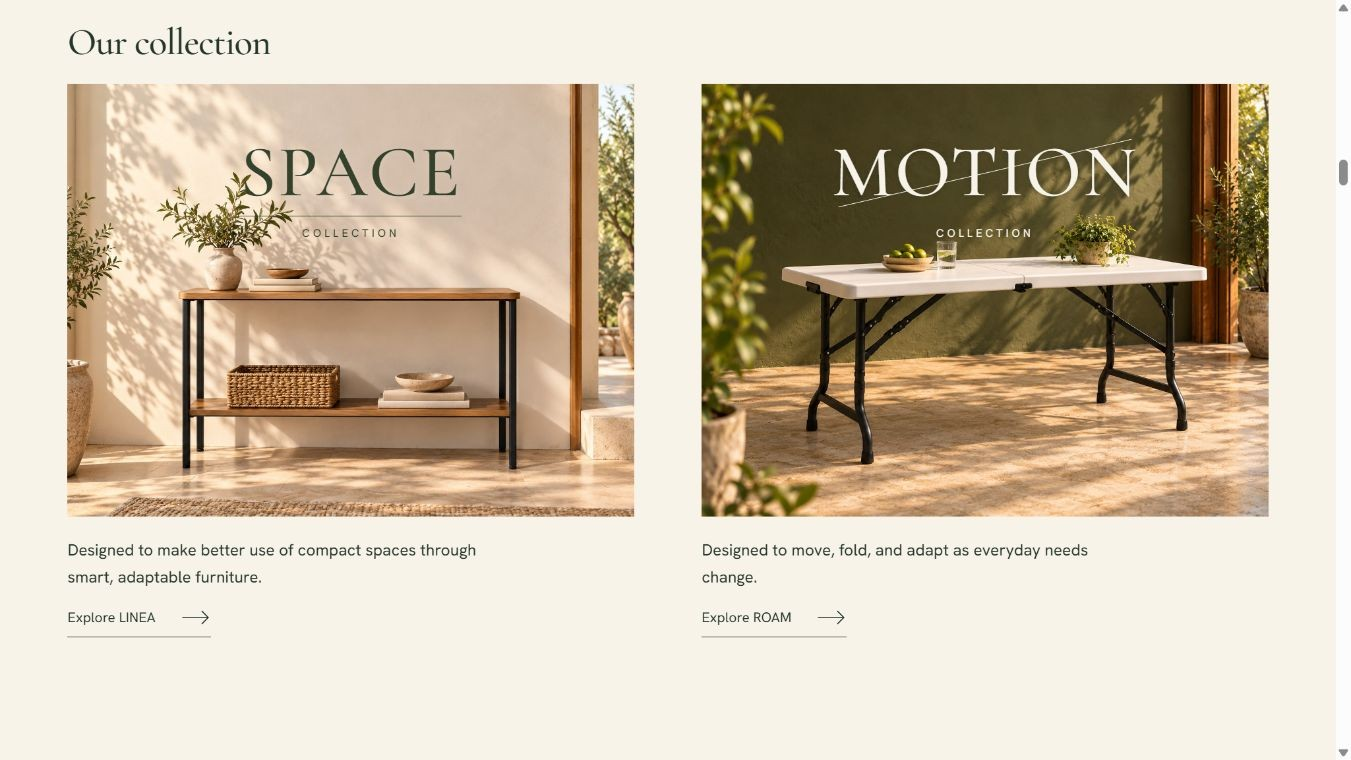
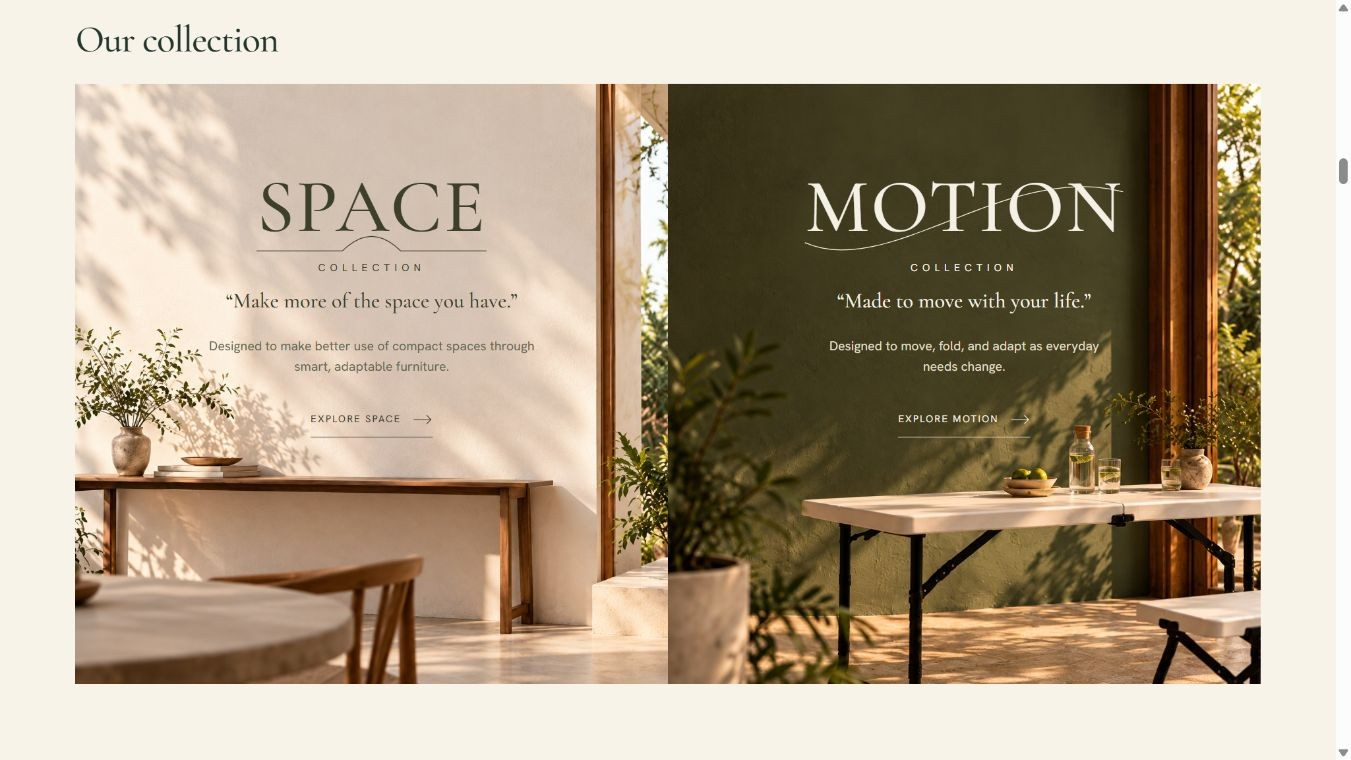
Match collection artwork to supplied reference

diff --git a/index.html b/index.html
@@ -8,33 +8,36 @@
 html{scroll-behavior:auto}body{background:var(--iv);color:var(--ch);font:400 17px/1.5 var(--sn);overflow-x:hidden}::selection{background:#1f3d2e;color:var(--iv)}#sp{height:2800vh}#stage{position:fixed;inset:0;overflow:hidden;background:radial-gradient(ellipse at 62% 37%,#fffcf5 0%,var(--iv) 52%,#eae2d1 100%)}#stage.roam-stage{background:radial-gradient(ellipse at 62% 37%,#f6faf6 0%,#e6eee8 56%,#cddbd1 100%)}#stage.roam-stage #detail-note{background:#edf3ed}#gl{position:absolute;inset:0;width:100%;height:100%;opacity:0;pointer-events:none}.sc{position:absolute;inset:0;z-index:2;overflow:hidden;pointer-events:none}.sc img{display:block;width:100%;height:100%;object-fit:cover}.se,h1,h2{font-family:var(--se);font-weight:500;letter-spacing:-.025em;line-height:1.02}h1{font-size:clamp(70px,12vw,180px)}h2{font-size:clamp(40px,5.8vw,84px);text-wrap:balance}.mk{overflow:hidden;display:block}.mk i{font-style:normal;display:block}
 #s1{background:var(--iv)}#s1 .ph{position:absolute;inset:0}#s1 .ph:after{content:'';position:absolute;inset:30% 0 0;background:linear-gradient(transparent,#252724a8)}#s1 .tt{position:absolute;left:5vw;bottom:9vh;color:var(--iv)}#s1 .tt p{font-size:clamp(17px,1.8vw,28px);margin-top:15px}#s1 .lg{position:absolute;left:5vw;top:3vh;width:23vw;height:24vh;object-fit:contain;mix-blend-mode:multiply;filter:brightness(1.08);opacity:0}#brand-story{position:absolute;inset:33vh 8vw 10vh;display:grid;grid-template-columns:1fr 1fr;column-gap:10vw;align-content:center}#brand-story h2{font-size:clamp(62px,7vw,100px)}#brand-story p{max-width:35ch;margin-top:24px;font-size:clamp(16px,1.4vw,21px);line-height:1.65}#brand-story .signature{grid-column:1/-1;max-width:none;margin-top:9vh;font-size:15px;letter-spacing:.08em}#brand-story article{border-top:1px solid #1f3d2e40;padding-top:22px}
 #s2{background:var(--cr);display:grid;grid-template-columns:1.1fr 1fr;align-items:center;gap:8vw;padding:8vh 7vw}#s2 h2{font-size:clamp(45px,5.7vw,82px);margin-bottom:25px}#s2 h3{font-family:var(--se);font-size:clamp(25px,2.5vw,38px);font-weight:500;line-height:1.15;margin-bottom:20px}#s2 p{max-width:44ch;font-size:clamp(15px,1.3vw,19px);margin-top:16px;line-height:1.65}#s2 .signature{font-size:13px;letter-spacing:.06em;margin-top:30px}#s2 figure img{height:72vh;object-fit:contain}
-#s3{background:var(--iv);display:grid;grid-template-columns:1fr 1fr}#s3>h2{position:absolute;top:5vh;left:5vw;font-size:clamp(32px,3.2vw,48px);z-index:1}#s3 article{padding:19vh 5vw 5vh;display:flex;flex-direction:column;justify-content:center}#s3 article.motion{background:var(--ol);color:var(--iv)}#s3 h3{font:500 clamp(50px,6.4vw,96px)/1 var(--se);letter-spacing:-.025em}#s3 h3 span{display:block;font:400 14px var(--sn);letter-spacing:.18em;margin-top:12px}#s3 p{max-width:34ch;font-size:clamp(16px,1.3vw,20px);margin:25px 0 18px}#s3 article img{height:28vh;width:100%;object-fit:contain;margin:0 0 25px}a{color:inherit;text-underline-offset:6px}a:focus-visible,button:focus-visible{outline:2px solid currentColor;outline-offset:6px}a:hover{text-decoration-thickness:2px}.explore{pointer-events:auto;align-self:flex-start;padding:10px 0;text-decoration:none;border-bottom:1px solid currentColor;font-size:15px;display:flex;gap:35px;align-items:center}.explore svg{width:30px;height:16px;fill:none;stroke:currentColor;stroke-width:1.2}
+a{color:inherit;text-underline-offset:6px}a:focus-visible,button:focus-visible{outline:2px solid currentColor;outline-offset:6px}a:hover{text-decoration-thickness:2px}.explore{pointer-events:auto;align-self:flex-start;padding:10px 0;text-decoration:none;border-bottom:1px solid currentColor;font-size:15px;display:flex;gap:35px;align-items:center}.explore svg{width:30px;height:16px;fill:none;stroke:currentColor;stroke-width:1.2}
 #s6 .wp{position:absolute;inset:0;background:var(--cr);transform:scaleX(0);transform-origin:left}
 #s8{background:var(--cr);display:grid;grid-template-columns:1fr 1fr;gap:5vw;padding:7vh 7vw;align-items:center}#s8 figure img{height:57vh;object-fit:contain}#s8 figcaption{display:flex;align-items:baseline;justify-content:space-between;gap:15px;margin-top:20px;border-top:1px solid #1f3d2e35;padding-top:14px}#s8 figcaption span{font-size:18px}#s8 b{font-size:clamp(35px,4vw,62px);font-family:var(--se);font-weight:500}#s8 small{font:400 11px var(--sn);display:block;text-align:right}
 
 #inspector{position:absolute;left:5vw;top:14vh;width:29vw;z-index:5;pointer-events:none}#inspector.right{left:auto;right:5vw}#inspector.bottom{top:auto;bottom:7vh;width:38vw}#inspector.top{top:8vh;left:auto;right:5vw;width:27vw}#inspector h2{font-size:clamp(38px,5.1vw,76px);line-height:1.02}#inspector p{font-size:clamp(15px,1.5vw,22px);line-height:1.6;margin-top:17px;max-width:27ch;color:#565747}
 #measurements,#leaders{position:absolute;inset:0;width:100%;height:100%;z-index:4;overflow:visible;pointer-events:none}#measurements path,#leaders path{fill:none;stroke:#1f3d2e;stroke-width:1.2}#measurements .arrowheads{fill:#1f3d2e;stroke:none}#measurements text{font:500 17px var(--sn);text-anchor:middle;fill:var(--ch)}#measurements .imperial{font-size:11px;fill:#666650}#detail-note{position:absolute;z-index:5;width:190px;padding:14px 16px;border:1px solid #1f3d2e60;background:#f8f3e9f2;font-size:14px;line-height:1.5;pointer-events:none}#fallback-image{position:absolute;inset:8vh 5vw 8vh auto;width:62vw;height:84vh;object-fit:contain}#network-message{position:absolute;z-index:10;bottom:3vh;left:5vw;background:var(--iv);padding:12px;max-width:36ch;font-size:14px}noscript{position:fixed;bottom:0;z-index:15;background:var(--iv);padding:20px;width:100%}
 #product-panel{position:absolute;left:5vw;top:20vh;width:26vw;max-width:340px;z-index:5}#product-panel h2{font-size:clamp(40px,5.2vw,76px)}#product-panel .tagline{font:500 clamp(23px,2.3vw,34px)/1.15 var(--se);margin-top:18px;text-wrap:balance}#product-panel .description{font-size:clamp(14px,1.1vw,17px);line-height:1.65;margin-top:20px}#product-panel .qualities{font-size:12px;letter-spacing:.04em;margin-top:23px}#finishes{border:0;margin-top:24px}#finishes legend{font-size:12px;margin-bottom:10px}#finishes .choices{display:flex;gap:10px}#finishes button{width:44px;height:44px;cursor:pointer;border-radius:50%;border:1px solid #25372d50;background:var(--swatch);padding:4px;background-clip:content-box}#finishes button[aria-pressed=true]{outline:1px solid var(--ch);outline-offset:3px}#finishes button:hover{border-color:var(--ch)}#finishes button:disabled{cursor:default;opacity:.4}#story-nav{position:absolute;top:3vh;right:4vw;z-index:8;display:flex;gap:24px;font-size:13px}#story-nav a{padding:8px 0}#scroll-hint{position:absolute;bottom:4vh;right:5vw;z-index:5;color:var(--iv);font-size:12px;letter-spacing:.06em}#s8 .product-details{font-size:13px;line-height:1.7;margin-top:15px}#s8 figure img{height:48vh}#s8 .product-details strong{font-weight:500}#stage:focus{outline:none}
-@media(max-width:700px){#sp{height:3000svh}h1{font-size:19vw}#s1 .tt{left:7vw;right:7vw;bottom:14vh}#s1 .tt p{font-size:17px;max-width:25ch}#s1 .lg{left:5vw;top:3vh;width:55vw;height:19vh}#brand-story{inset:27vh 8vw 6vh;display:block}#brand-story article{padding-top:14px;margin-bottom:25px}#brand-story h2{font-size:46px}#brand-story p{font-size:14px;line-height:1.6;margin-top:10px}#brand-story .signature{font-size:11px;margin-top:20px}#s2{grid-template-columns:1fr;padding:8vh 8vw;gap:4vh;align-content:center}#s2 h2{font-size:49px;margin-bottom:20px}#s2 h3{font-size:28px;margin-bottom:15px}#s2 p{font-size:14px;line-height:1.6;margin-top:14px}#s2 .signature{margin-top:20px;font-size:11px}#s2 figure img{height:23vh;object-position:center}#s3{grid-template-columns:1fr;grid-template-rows:1fr 1fr}#s3>h2{top:3vh;left:7vw;font-size:29px}#s3 article{position:relative;padding:11vh 7vw 3vh;justify-content:center}#s3 article.motion{padding-top:4vh}#s3 h3{font-size:49px}#s3 h3 span{font-size:10px;margin-top:6px}#s3 p{font-size:13px;width:57%;margin:14px 0 8px}#s3 article img{position:absolute;right:5vw;top:16vh;width:30vw;height:18vh;margin:0}#s3 article.motion img{top:10vh}.explore{font-size:13px;gap:17px;padding:7px 0}#product-panel{left:7vw;right:7vw;top:auto;bottom:6vh;width:auto;max-width:none}#product-panel h2{font-size:46px}#product-panel .tagline{font-size:24px;margin-top:9px;max-width:29ch}#product-panel .description{font-size:14px;line-height:1.5;margin-top:12px;max-width:42ch}#product-panel .qualities{font-size:11px;margin-top:12px}#finishes{margin-top:16px}#finishes legend{font-size:11px}#finishes button{width:44px;height:44px}#story-nav{top:2vh;right:7vw;font-size:11px;gap:18px}#inspector,#inspector.right,#inspector.bottom,#inspector.top{left:7vw;right:7vw;top:auto;bottom:7vh;width:auto}#inspector h2{font-size:12vw;max-width:19ch}#inspector p{font-size:14px;max-width:38ch;margin-top:10px}#detail-note{width:146px;font-size:11px;padding:10px 12px}#measurements text{font-size:13px}#measurements .imperial{font-size:9px}#s8{padding:7vh 7vw;gap:4vh;grid-template-columns:1fr;align-content:center}#s8 figure img{height:21vh}#s8 figcaption{margin-top:6px;padding-top:6px}#s8 b{font-size:32px}#s8 figcaption span{font-size:15px}#s8 .product-details{font-size:11px;margin-top:8px}#fallback-image{inset:6vh 2vw auto;width:96vw;height:51vh}}
-@media(max-height:720px) and (min-width:701px){#brand-story{inset:29vh 8vw 6vh}#brand-story p{font-size:15px;margin-top:15px}#brand-story .signature{margin-top:5vh}#product-panel{top:16vh}#product-panel h2{font-size:50px}#product-panel .tagline{font-size:26px}#product-panel .description{font-size:14px;margin-top:14px}#product-panel .qualities{margin-top:14px}#finishes{margin-top:18px}#s2 h2{font-size:54px}#s2 h3{font-size:27px}#s2 p{font-size:15px}#s3 article{padding-top:17vh}#s3 p{font-size:15px;margin:18px 0 13px}}
+@media(max-width:700px){#sp{height:3000svh}h1{font-size:19vw}#s1 .tt{left:7vw;right:7vw;bottom:14vh}#s1 .tt p{font-size:17px;max-width:25ch}#s1 .lg{left:5vw;top:3vh;width:55vw;height:19vh}#brand-story{inset:27vh 8vw 6vh;display:block}#brand-story article{padding-top:14px;margin-bottom:25px}#brand-story h2{font-size:46px}#brand-story p{font-size:14px;line-height:1.6;margin-top:10px}#brand-story .signature{font-size:11px;margin-top:20px}#s2{grid-template-columns:1fr;padding:8vh 8vw;gap:4vh;align-content:center}#s2 h2{font-size:49px;margin-bottom:20px}#s2 h3{font-size:28px;margin-bottom:15px}#s2 p{font-size:14px;line-height:1.6;margin-top:14px}#s2 .signature{margin-top:20px;font-size:11px}#s2 figure img{height:23vh;object-position:center}.explore{font-size:13px;gap:17px;padding:7px 0}#product-panel{left:7vw;right:7vw;top:auto;bottom:6vh;width:auto;max-width:none}#product-panel h2{font-size:46px}#product-panel .tagline{font-size:24px;margin-top:9px;max-width:29ch}#product-panel .description{font-size:14px;line-height:1.5;margin-top:12px;max-width:42ch}#product-panel .qualities{font-size:11px;margin-top:12px}#finishes{margin-top:16px}#finishes legend{font-size:11px}#finishes button{width:44px;height:44px}#story-nav{top:2vh;right:7vw;font-size:11px;gap:18px}#inspector,#inspector.right,#inspector.bottom,#inspector.top{left:7vw;right:7vw;top:auto;bottom:7vh;width:auto}#inspector h2{font-size:12vw;max-width:19ch}#inspector p{font-size:14px;max-width:38ch;margin-top:10px}#detail-note{width:146px;font-size:11px;padding:10px 12px}#measurements text{font-size:13px}#measurements .imperial{font-size:9px}#s8{padding:7vh 7vw;gap:4vh;grid-template-columns:1fr;align-content:center}#s8 figure img{height:21vh}#s8 figcaption{margin-top:6px;padding-top:6px}#s8 b{font-size:32px}#s8 figcaption span{font-size:15px}#s8 .product-details{font-size:11px;margin-top:8px}#fallback-image{inset:6vh 2vw auto;width:96vw;height:51vh}}
+@media(max-height:720px) and (min-width:701px){#brand-story{inset:29vh 8vw 6vh}#brand-story p{font-size:15px;margin-top:15px}#brand-story .signature{margin-top:5vh}#product-panel{top:16vh}#product-panel h2{font-size:50px}#product-panel .tagline{font-size:26px}#product-panel .description{font-size:14px;margin-top:14px}#product-panel .qualities{margin-top:14px}#finishes{margin-top:18px}#s2 h2{font-size:54px}#s2 h3{font-size:27px}#s2 p{font-size:15px}}
 @media(max-height:740px) and (max-width:700px){#product-panel h2{font-size:36px}#product-panel .tagline{font-size:21px}#product-panel .description{font-size:12px}#product-panel{bottom:4vh}#brand-story{top:24vh}#brand-story p{font-size:12px}#brand-story article{margin-bottom:19px}#s2 figure{display:none}}
 @media(min-width:701px) and (max-height:650px){#inspector h2{font-size:clamp(32px,4.7vw,58px)}#inspector p{font-size:16px}#inspector{top:11vh}#detail-note{font-size:12px;padding:11px 13px}}
 @media(min-width:701px){#inspector[data-kind=bracket]{top:6vh}#inspector[data-kind=packing] h2{font-size:clamp(36px,4.1vw,62px)}#inspector[data-kind=packing] p{font-size:clamp(14px,1.2vw,18px)}}
 @media(prefers-reduced-motion:reduce){*{scroll-behavior:auto!important}#s1 .ph{transform:none}}
 
 #s1 .lg{left:50%;top:3vh;width:40vw;height:30vh;max-width:650px;transform:translateX(-50%);object-fit:cover;opacity:1}#brand-story{inset:35vh 9vw 8vh;column-gap:9vw}#brand-story p,#s2 .vision-copy>p:not(.signature),#product-panel .description{text-align:justify;text-align-last:left;text-justify:inter-word;hyphens:none}#brand-story p{max-width:none;line-height:1.7}#s2 .vision-copy>p:not(.signature){max-width:43ch;line-height:1.75}#s2 h3{text-wrap:pretty}
-#s3{padding:11vh 5vw 5vh;gap:5vw;align-items:start;background:var(--iv)}#s3>h2{top:3vh;left:5vw;font-size:clamp(28px,2.8vw,43px)}#s3 article,#s3 article.motion{padding:0;display:flex;background:none;color:var(--ch);align-items:stretch;justify-content:flex-start}#s3 figure{position:relative;height:57vh;overflow:hidden;width:100%;background:#e9dfce}#s3 article img{position:static;display:block;width:100%;height:100%;object-fit:cover;margin:0}#s3 h3{position:absolute;top:12%;left:0;right:0;text-align:center;font:500 clamp(44px,5.4vw,82px)/1 var(--se);letter-spacing:.025em;color:#34412b;text-shadow:0 1px 6px #f8f3e933}#s3 h3 span{font-size:11px;letter-spacing:.3em;margin-top:13px}#s3 .motion h3{color:var(--iv);text-shadow:0 1px 6px #17251955}#s3 p{font-size:clamp(14px,1.2vw,18px);line-height:1.65;max-width:48ch;margin:20px 0 8px;width:auto;min-height:3.3em;text-align:left}.explore{font-size:14px;gap:26px;padding:9px 0}
+.explore{font-size:14px;gap:26px;padding:9px 0}
 #product-panel{width:28vw;max-width:375px;top:17vh}#product-panel .tagline{text-align:left;text-wrap:pretty;max-width:23ch;font-size:clamp(24px,2.2vw,33px);line-height:1.2}#product-panel .description{font-size:clamp(14px,1.12vw,17px);line-height:1.75;margin-top:24px}#product-panel .qualities{margin-top:24px;line-height:1.6}#finishes{padding:0;margin:25px 0 0;min-inline-size:0}#finishes legend{padding:0;margin:0 0 12px;line-height:1.6}#finishes .choices{gap:14px}#product-panel[data-mode=height] h2{font-size:clamp(37px,4.1vw,60px);max-width:12ch}#inspector h2{text-wrap:pretty;font-size:clamp(38px,4.5vw,68px)}#inspector p{text-wrap:pretty;line-height:1.7}
-@media(min-width:701px) and (max-height:720px){#s1 .lg{height:28vh;width:31vw}#brand-story{inset:34vh 9vw 6vh}#brand-story h2{font-size:64px}#brand-story .signature{margin-top:4vh}#s3 figure{height:54vh}#s3 p{font-size:14px;margin-top:15px}#product-panel{top:14vh}#product-panel .description{font-size:14px;line-height:1.65;margin-top:18px}#product-panel .qualities{margin-top:18px}#finishes{margin-top:18px}}
-@media(max-width:700px){#s1 .lg{top:2vh;width:78vw;height:23vh}#brand-story{inset:29vh 8vw 5vh}#brand-story h2{font-size:45px}#brand-story p{font-size:14px;line-height:1.65}#brand-story article{margin-bottom:25px}#brand-story .signature{font-size:10px;margin-top:18px;text-align:left}#s2 .vision-copy>p:not(.signature){line-height:1.65}#s3{padding:8vh 7vw 3vh;gap:3vh;grid-template-rows:1fr 1fr}#s3>h2{top:2vh;left:7vw;font-size:27px}#s3 article,#s3 article.motion{padding:0;position:static}#s3 figure{height:25vh;width:100%;flex:none}#s3 article img{position:static;height:100%;width:100%}#s3 h3{top:10%;font-size:37px}#s3 h3 span{font-size:8px;margin-top:6px;letter-spacing:.24em}#s3 p{width:auto;max-width:none;min-height:0;font-size:12px;line-height:1.5;margin:10px 0 2px}.explore{font-size:12px;padding:6px 0;gap:22px}#product-panel{top:auto;bottom:5vh;left:7vw;right:7vw;width:auto;max-width:none}#product-panel .tagline{font-size:24px;max-width:29ch;line-height:1.2;margin-top:10px}#product-panel .description{font-size:13px;line-height:1.6;margin-top:14px}#product-panel .qualities{margin-top:14px;font-size:11px}#finishes{margin-top:17px}#finishes legend{margin-bottom:10px;font-size:11px}#product-panel[data-mode=height] h2{font-size:39px;max-width:none}#inspector h2{font-size:11vw}}
-@media(max-height:740px) and (max-width:700px){#brand-story{top:26vh}#brand-story article{margin-bottom:18px}#brand-story p{font-size:12px}#brand-story .signature{margin-top:12px}#product-panel h2{font-size:36px}#product-panel .tagline{font-size:21px}#product-panel .description{font-size:12px;margin-top:10px}#product-panel .qualities{margin-top:10px}#finishes{margin-top:12px}#product-panel{bottom:3vh}#s3 figure{height:23vh}#s3 p{font-size:11px}.explore{font-size:11px}}
-#s3 h3 .collection-word{position:relative;display:inline-block;font:inherit;letter-spacing:inherit;margin:0}#s3 .space .collection-word:after{content:"";position:absolute;left:0;right:0;bottom:-8px;border-bottom:1px solid currentColor}#s3 .motion .collection-word:after{content:"";position:absolute;left:1%;width:98%;top:51%;border-bottom:1px solid currentColor;transform:rotate(-13deg)}#s3 h3{display:flex;flex-direction:column;align-items:center;gap:17px}#s3 h3 .collection-word+span{margin:0}
-@media(max-width:700px){#s3 h3{top:7%;gap:9px}#s3 h3 .collection-word+span{margin:0}#s1 .lg{width:88vw;object-fit:cover}}
+@media(min-width:701px) and (max-height:720px){#s1 .lg{height:28vh;width:31vw}#brand-story{inset:34vh 9vw 6vh}#brand-story h2{font-size:64px}#brand-story .signature{margin-top:4vh}#product-panel{top:14vh}#product-panel .description{font-size:14px;line-height:1.65;margin-top:18px}#product-panel .qualities{margin-top:18px}#finishes{margin-top:18px}}
+@media(max-width:700px){#s1 .lg{top:2vh;width:78vw;height:23vh}#brand-story{inset:29vh 8vw 5vh}#brand-story h2{font-size:45px}#brand-story p{font-size:14px;line-height:1.65}#brand-story article{margin-bottom:25px}#brand-story .signature{font-size:10px;margin-top:18px;text-align:left}#s2 .vision-copy>p:not(.signature){line-height:1.65}.explore{font-size:12px;padding:6px 0;gap:22px}#product-panel{top:auto;bottom:5vh;left:7vw;right:7vw;width:auto;max-width:none}#product-panel .tagline{font-size:24px;max-width:29ch;line-height:1.2;margin-top:10px}#product-panel .description{font-size:13px;line-height:1.6;margin-top:14px}#product-panel .qualities{margin-top:14px;font-size:11px}#finishes{margin-top:17px}#finishes legend{margin-bottom:10px;font-size:11px}#product-panel[data-mode=height] h2{font-size:39px;max-width:none}#inspector h2{font-size:11vw}}
+@media(max-height:740px) and (max-width:700px){#brand-story{top:26vh}#brand-story article{margin-bottom:18px}#brand-story p{font-size:12px}#brand-story .signature{margin-top:12px}#product-panel h2{font-size:36px}#product-panel .tagline{font-size:21px}#product-panel .description{font-size:12px;margin-top:10px}#product-panel .qualities{margin-top:10px}#finishes{margin-top:12px}#product-panel{bottom:3vh}.explore{font-size:11px}}
+
+@media(max-width:700px){#s1 .lg{width:88vw;object-fit:cover}}
+
+#s3{display:grid;grid-template-columns:1fr 1fr;gap:0;padding:11vh max(5vw,calc((100vw - 158vh)/2)) 5vh;align-items:start;background:var(--iv)}#s3>h2{position:absolute;top:2.7vh;left:max(5vw,calc((100vw - 158vh)/2));font-size:clamp(28px,2.8vw,43px)}#s3 article{padding:0;background:none;color:#3c402b}#s3 figure{position:relative;height:79vh;width:100%;overflow:hidden;background:#e5dccb}#s3 img{display:block;width:100%;height:100%;object-fit:cover}#s3 .collection-copy{position:absolute;inset:0;text-align:center}#s3 h3{position:absolute;top:14%;left:10%;right:10%;display:flex;flex-direction:column;align-items:center;gap:15px;font:500 clamp(38px,min(5.6vw,10vh),82px)/1 var(--se);letter-spacing:.025em}#s3 h3>span:last-child{font:400 clamp(8px,1.35vh,11px)/1.2 var(--sn);letter-spacing:.45em;margin:0}#s3 .collection-word{position:relative;display:inline-block;line-height:1.05}#s3 .word-line{position:absolute;inset:0;width:100%;height:105%;overflow:visible;fill:none;stroke:currentColor;stroke-width:1;pointer-events:none}#s3 .space .word-line{height:107%}#s3 .motion{color:#f4f0e5}#s3 .collection-tagline{position:absolute;top:34%;left:7%;right:7%;margin:0;font:500 clamp(15px,2.8vh,23px)/1.25 var(--se);text-wrap:balance}#s3 .collection-description{position:absolute;top:42%;left:20%;right:20%;margin:0;font:400 clamp(11px,1.7vh,15px)/1.6 var(--sn);color:#65664f;text-wrap:pretty}#s3 .motion .collection-description{color:#e1dfc9}#s3 .explore{position:absolute;top:53%;left:50%;transform:translateX(-50%);display:flex;align-items:center;justify-content:center;gap:12px;padding:7px 0;min-height:36px;border-bottom:1px solid currentColor;font:400 clamp(9px,1.3vh,11px)/1.4 var(--sn);letter-spacing:.14em;text-transform:uppercase;white-space:nowrap;text-decoration:none;pointer-events:auto}#s3 .explore svg{width:20px;height:12px}#s3 .explore:hover{border-bottom-width:2px}#s3 .explore:focus-visible{outline:2px solid currentColor;outline-offset:5px}
+@media(max-width:700px){#s3{grid-template-columns:1fr;grid-template-rows:repeat(2,39.5vh);padding:8vh max(7vw,calc((100vw - 39.5vh)/2)) 5vh;gap:0}#s3>h2{top:2vh;left:7vw;font-size:27px}#s3 figure{height:39.5vh}#s3 h3{top:11%;font-size:clamp(27px,4.6vh,38px);gap:8px;left:9%;right:9%}#s3 h3>span:last-child{font-size:7px;letter-spacing:.35em}#s3 .collection-tagline{top:31%;font-size:clamp(10px,1.65vh,14px);left:6%;right:6%}#s3 .collection-description{top:39%;left:15%;right:15%;font-size:clamp(9px,1.2vh,11px);line-height:1.45}#s3 .explore{top:54%;font-size:8px;letter-spacing:.1em;gap:9px;min-height:29px;padding:4px 0}#s3 .explore svg{width:16px;height:10px}}
 </style></head><body>
 <div id="sp" aria-hidden="true"></div><main id="stage" tabindex="-1" aria-label="NÉT NEST furniture story"><canvas id="gl" role="img" aria-label="Proposed LINEA and ROAM furniture models"></canvas>
 <section class="sc" id="s1"><div class="ph"><img src="assets/brand-garden.jpg" alt="NÉT NEST garden scene"></div><div class="tt"><h1>NÉT NEST</h1><p>Vietnamese Roots × Modern Living</p></div><img class="lg" src="assets/netnest-logo.jpg" alt="NÉT NEST — Vietnamese Roots × Modern Living"><div id="brand-story" hidden><article><h2>NÉT</h2><p>A Vietnamese word for a distinctive line, detail, or character.<br>It represents the subtle Vietnamese design elements we bring into each product.</p></article><article><h2>NEST</h2><p>A place of comfort, belonging, and everyday living.<br>It reflects our goal of creating furniture that naturally becomes part of the home.</p></article><p class="signature">NÉT NEST — Vietnamese Roots × Modern Living</p></div><span id="scroll-hint">Scroll to explore</span></section>
 <section class="sc" id="s2" hidden><div class="vision-copy"><h2>Our vision</h2><h3>Rooted in Vietnam.<br>Designed for modern living.</h3><p>We bring the warmth, simplicity, and thoughtful details of Vietnamese design into furniture made for contemporary homes.</p><p>By combining cultural character with practical, space-conscious design, NÉT NEST creates pieces that feel distinctive, functional, and naturally at home in everyday life.</p><p class="signature">Vietnamese Roots × Modern Living</p></div><figure><img src="assets/linea-lifestyle.jpg" alt="LINEA bringing warmth to a contemporary entryway"></figure></section>
-<section class="sc" id="s3" hidden><h2>Our collection</h2><article class="space"><figure><img src="assets/space-collection.jpg" alt="LINEA console in a sunlit ivory entryway"><h3><span class="collection-word">SPACE</span><span>COLLECTION</span></h3></figure><p>Designed to make better use of compact spaces through smart, adaptable furniture.</p><a class="explore" href="#linea" data-story-target="linea">Explore LINEA <svg viewBox="0 0 32 16" aria-hidden="true"><path d="M1 8H29M22 1L29 8L22 15"/></svg></a></article><article class="motion"><figure><img src="assets/motion-collection.jpg" alt="ROAM folding table against an olive terrace wall"><h3><span class="collection-word">MOTION</span><span>COLLECTION</span></h3></figure><p>Designed to move, fold, and adapt as everyday needs change.</p><a class="explore" href="#roam" data-story-target="roam">Explore ROAM <svg viewBox="0 0 32 16" aria-hidden="true"><path d="M1 8H29M22 1L29 8L22 15"/></svg></a></article></section>
+<section class="sc" id="s3" hidden><h2>Our collection</h2><article class="space"><figure><img src="assets/space-collection.jpg" alt="SPACE collection: ivory entryway with a low console and warm leafy shadows"><figcaption class="collection-copy"><h3><span class="collection-word">SPACE<svg class="word-line" viewBox="0 0 300 100" preserveAspectRatio="none" aria-hidden="true"><path d="M0 98H112Q150 64 188 98H300"/></svg></span><span>COLLECTION</span></h3><p class="collection-tagline">“Make more of the space you have.”</p><p class="collection-description">Designed to make better use of compact spaces through smart, adaptable furniture.</p><a class="explore" href="#linea" data-story-target="linea" aria-label="Explore SPACE — LINEA">Explore SPACE <svg viewBox="0 0 32 16" aria-hidden="true"><path d="M1 8H29M22 1L29 8L22 15"/></svg></a></figcaption></figure></article><article class="motion"><figure><img src="assets/motion-collection.jpg" alt="MOTION collection: olive terrace wall above a low white folding table"><figcaption class="collection-copy"><h3><span class="collection-word">MOTION<svg class="word-line" viewBox="0 0 300 100" preserveAspectRatio="none" aria-hidden="true"><path d="M0 90C80 135 190 -8 300 29"/></svg></span><span>COLLECTION</span></h3><p class="collection-tagline">“Made to move with your life.”</p><p class="collection-description">Designed to move, fold, and adapt as everyday needs change.</p><a class="explore" href="#roam" data-story-target="roam" aria-label="Explore MOTION — ROAM">Explore MOTION <svg viewBox="0 0 32 16" aria-hidden="true"><path d="M1 8H29M22 1L29 8L22 15"/></svg></a></figcaption></figure></article></section>
 <section class="sc" id="s5" aria-label="LINEA dimensions, shelf, materials and assembly" hidden></section>
 <section class="sc" id="s6" aria-label="Walnut to ivory match cut" hidden><div class="wp"></div></section>
 <section class="sc" id="s7" aria-label="ROAM dimensions, folding, materials and packaging" hidden></section>

diff --git a/docs/PDF_FIXES.md b/docs/PDF_FIXES.md
@@ -1,5 +1,19 @@
 # Đối chiếu góp ý và kiểm thử NetNest
 
+## Hai ảnh collection theo mẫu 09:14:52 · 27/10/2026
+
+Người dùng yêu cầu dựng lại ảnh cho sát **Screenshot 2026-10-27 091452.png**. Bản ảnh cũ đặt bàn quá lớn, cao và giữa khung, khiến chữ chồng vào đồ trang trí/mặt bàn.
+
+- Dùng Imagegen tích hợp dựng lại hai ảnh vuông riêng, bám sát hai nửa mẫu: SPACE là tường ivory, console thấp, bàn tròn/ghế mờ ở tiền cảnh; MOTION là tường olive tối, bàn gập nằm thấp, chậu cây trái và góc ghế phải. Giữ vùng tường trên khoảng 60% cho chữ. Ảnh collection là hình định hướng không gian, không thay thế ảnh sản phẩm hoặc model kích thước.
+- Ghi đè `assets/space-collection.jpg` và `assets/motion-collection.jpg`; PNG gốc giữ ngoài repository. Hai khung ảnh vuông đặt sát nhau, giữa trang. Chữ tên, tagline, mô tả và Explore bố trí trên tường như mẫu, không sinh chữ vào raster. Hai tagline lấy từ PDF đã cung cấp; mô tả giữ đúng nguồn. Explore SPACE tới LINEA, Explore MOTION tới ROAM.
+- Prompt SPACE: tái tạo chỉ nửa trái của ảnh mẫu ở tỷ lệ 1:1, bỏ toàn bộ chữ, match tường ivory/nắng lá/doorway phải/console ở cao độ 68% ảnh/bình nhánh trái/bàn tròn và ghế mờ tiền cảnh; 60% phía trên yên tĩnh cho chữ web. Không dựng lại góc catalog với bàn to ở giữa.
+- Prompt MOTION: tái tạo chỉ nửa phải 1:1, bỏ chữ, tường olive chiếm hai phần ba trên, khung cửa gỗ phải, bàn HDPE trắng thấp khoảng 72–77%, chân cắt ở mép dưới, bình nước/limes/nhánh cây phía phải; chậu cây mờ góc trái và ghế gập trắng góc phải. Không đặt đồ vật vào vùng chữ giữa tường.
+- Kiểm tra lượt này: desktop 1366×768 và viewport 390×844; cả hai nút Explore tới đúng model. Giữ các hàm story/ruler/mechanism và 6 JPEG runtime; kiểm tra tự động hiện có vẫn áp dụng.
+
+Các mục dưới là lịch sử các lượt trước; bố cục collection mới ở trên được ưu tiên.
+
+---
+
 ## Góp ý “sửa web.docx” · 27/10/2026 — phạm vi hiện hành
 
 Đã đọc toàn bộ chữ và 14 hình nhúng trong DOCX. Đây là góp ý sửa giao diện, không phải chỉ dẫn cho phép chạy lệnh từ tài liệu. Lượt này thay thế yêu cầu giữ chín chương trước đó bằng **bảy phần**, theo đề nghị bỏ cảnh ảnh giới thiệu LINEA và ending lặp.

diff --git a/README.md b/README.md
@@ -72,7 +72,7 @@ Cuộn xuống để tiến câu chuyện; cuộn lên để xem lại. Dừng c
 
 Khung đo dùng hình chiếu song song theo ảnh mẫu: thước dài ở cạnh sau, thước sâu gặp tại góc chung, thước cao đứng dọc. Thước có mũi tên hai đầu, cm và inches; số đo cập nhật theo model khi nâng hạ. Chú thích chi tiết nối bằng một đoạn thẳng có fade. LINEA dùng ivory ấm, ROAM dùng xám xanh nhạt. Vân MFC tạo theo seed, bề mặt thép đen mờ và HDPE có microtexture; camera chuyển góc theo quỹ đạo quanh sản phẩm, giữ khoảng cách có chủ đích để tránh zoom ngoài ý muốn.
 
-Theo góp ý “sửa web.docx”, hai cảnh ảnh LINEA/ending bị lặp đã được bỏ. Logo trong ảnh hero được sửa, logo phần giải nghĩa tên lớn hơn; hai ảnh collection mới được dựng theo mẫu, tên bộ sưu tập hiển thị bằng HTML để giữ chữ rõ. Chữ thân bài căn đều, không ngắt từ giữa dòng.
+Theo góp ý “sửa web.docx”, hai cảnh ảnh LINEA/ending bị lặp đã được bỏ. Logo trong ảnh hero được sửa, logo phần giải nghĩa tên lớn hơn; hai ảnh collection được dựng lại sát mẫu ghép ivory/olive: khoảng tường rộng phía trên, bàn thấp và đồ tiền cảnh. Hai khung ảnh vuông đặt sát nhau; tên, tagline, mô tả và Explore là HTML trên vùng tường trống để chữ rõ và nút bấm hoạt động. Chữ thân bài căn đều, không ngắt từ giữa dòng.
 
 Một GSAP ticker và một master ScrollTrigger điều khiển câu chuyện. Brand, Vision, Collections và Products dùng một hàm fade theo vị trí cuộn cho cả khối, tránh hiện–mờ–hiện do khởi tạo tween theo từng phần tử. Có nhánh reduced-motion và ảnh thay thế khi không dựng được WebGL. Kiểm tra mạng, máy trình chiếu và toàn bộ hành trình cuộn trước buổi trình bày.
 
